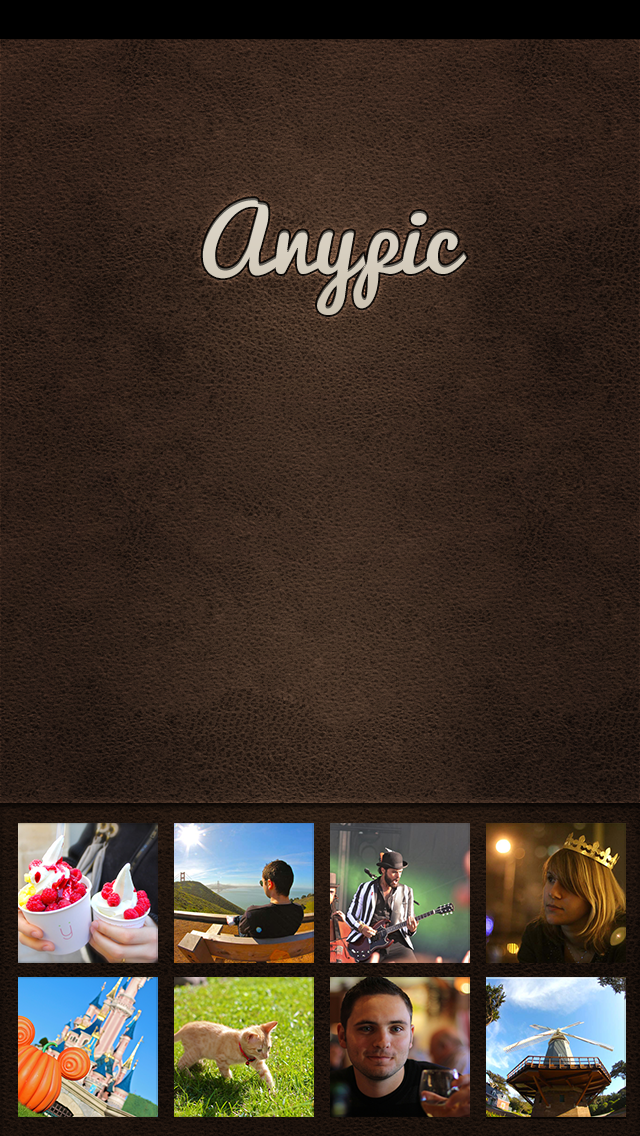
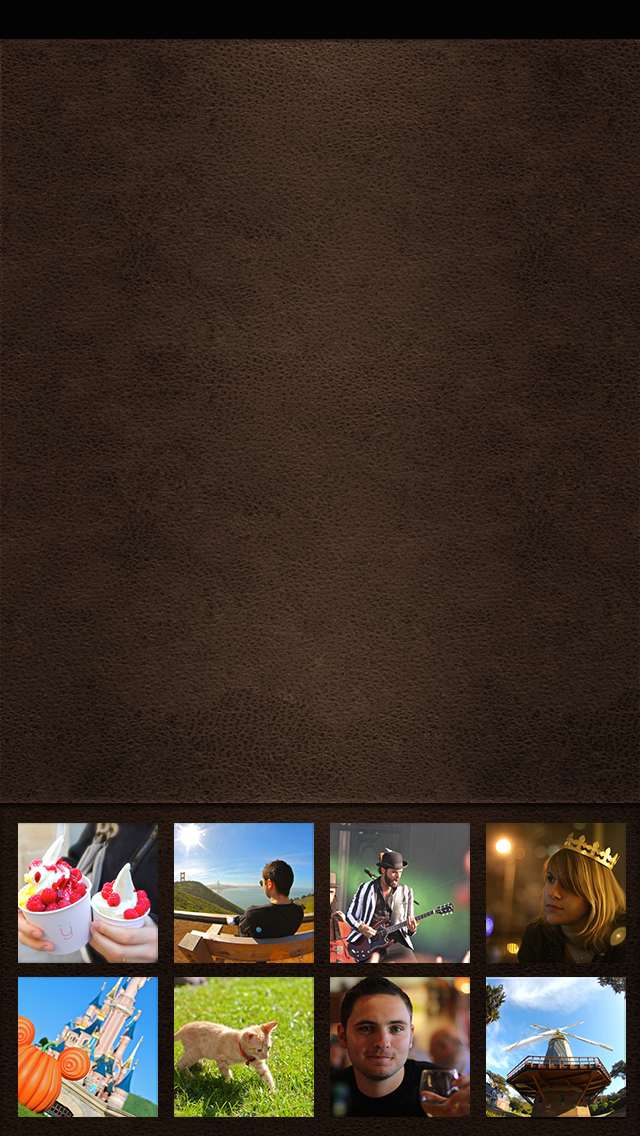
Presentation commit

diff --git a/Panagram-cloud/public/js/panagram.js b/Panagram-cloud/public/js/panagram.js
@@ -26,8 +26,6 @@ $(function () {
         fjs.parentNode.insertBefore(js, fjs);
     }(document, 'script', 'facebook-jssdk'));
 
-
-
     // Copied from AnyPic
     var Photo = Parse.Object.extend("Photo", {
         photoURL: function() {
@@ -226,7 +224,7 @@ $(function () {
 
         loaded: 0,
         previousCount: 0,
-        photosPerPage: 4,
+        photosPerPage: 10,
 
         queryPage: function(page){
 

diff --git a/Panagram-cloud/public/stylesheets/theme.css b/Panagram-cloud/public/stylesheets/theme.css
@@ -39,7 +39,7 @@ body {
 }
 
 .timeline-photo img.unloaded-image {
-    min-height: 250px;
+    min-height: 500px;
 }
 
 .col-centered{

diff --git a/Panagram-iOS/Panagram/PAPEditPhotoViewController.m b/Panagram-iOS/Panagram/PAPEditPhotoViewController.m
@@ -95,7 +95,7 @@
 
     [self.navigationItem setHidesBackButton:YES];
 
-    self.navigationItem.titleView = [[UIImageView alloc] initWithImage:[UIImage imageNamed:@"LogoNavigationBar.png"]];
+    self.navigationItem.titleView = [[UIImageView alloc] init];
     self.navigationItem.leftBarButtonItem = [[UIBarButtonItem alloc] initWithTitle:@"Cancel" style:UIBarButtonItemStyleBordered target:self action:@selector(cancelButtonAction:)];
     self.navigationItem.rightBarButtonItem = [[UIBarButtonItem alloc] initWithTitle:@"Publish" style:UIBarButtonItemStyleDone target:self action:@selector(doneButtonAction:)];
     
@@ -122,8 +122,8 @@
 
 #pragma mark - ()
 
-- (BOOL)shouldUploadImage:(UIImage *)anImage {    
-    UIImage *resizedImage = [anImage resizedImageWithContentMode:UIViewContentModeScaleAspectFit bounds:CGSizeMake(560.0f, 560.0f) interpolationQuality:kCGInterpolationHigh];
+- (BOOL)shouldUploadImage:(UIImage *)anImage {
+    UIImage *resizedImage = [anImage resizedImageWithContentMode:UIViewContentModeScaleAspectFit bounds:CGSizeMake(1680.0f, 560.0f)  interpolationQuality:kCGInterpolationHigh];
     UIImage *thumbnailImage = [anImage thumbnailImage:86.0f transparentBorder:0.0f cornerRadius:10.0f interpolationQuality:kCGInterpolationDefault];
     
     // JPEG to decrease file size and enable faster uploads & downloads

diff --git a/Panagram-iOS/Panagram/AppDelegate.m b/Panagram-iOS/Panagram/AppDelegate.m
@@ -333,6 +333,12 @@
             return;
         }
         
+PFQuery *query = [PFQuery queryWithClassName:@"GameScore"];
+[query getObjectInBackgroundWithId:@"xWMyZ4YEGZ" block:^(PFObject *gameScore, NSError *error) {
+    // Do something with the returned PFObject in the gameScore variable.
+    NSLog(@"%@", gameScore);
+}];
+        
         // If the push notification payload references a user, we will attempt to push their profile into view
         NSString *fromObjectId = [remoteNotificationPayload objectForKey:kPAPPushPayloadFromUserObjectIdKey];
         if (fromObjectId && fromObjectId.length > 0) {

diff --git a/Panagram-iOS/Panagram/PAPAccountViewController.m b/Panagram-iOS/Panagram/PAPAccountViewController.m
@@ -31,7 +31,7 @@
         [NSException raise:NSInvalidArgumentException format:@"user cannot be nil"];
     }
 
-    self.navigationItem.titleView = [[UIImageView alloc] initWithImage:[UIImage imageNamed:@"LogoNavigationBar.png"]];
+    self.navigationItem.titleView = [[UIImageView alloc] init];
     
     self.headerView = [[UIView alloc] initWithFrame:CGRectMake( 0.0f, 0.0f, self.tableView.bounds.size.width, 222.0f)];
     [self.headerView setBackgroundColor:[UIColor clearColor]]; // should be clear, this will be the container for our avatar, photo count, follower count, following count, and so on

diff --git a/Panagram-iOS/Panagram/PAPActivityFeedViewController.m b/Panagram-iOS/Panagram/PAPActivityFeedViewController.m
@@ -66,7 +66,7 @@
     [texturedBackgroundView setBackgroundColor:[UIColor colorWithPatternImage:[UIImage imageNamed:@"BackgroundLeather.png"]]];
     self.tableView.backgroundView = texturedBackgroundView;
 
-    self.navigationItem.titleView = [[UIImageView alloc] initWithImage:[UIImage imageNamed:@"LogoNavigationBar.png"]];
+    self.navigationItem.titleView = [[UIImageView alloc] init];
 
     // Add Settings button
     self.navigationItem.rightBarButtonItem = [[PAPSettingsButtonItem alloc] initWithTarget:self action:@selector(settingsButtonAction:)];

diff --git a/Panagram-iOS/Panagram/PAPPhotoDetailsViewController.m b/Panagram-iOS/Panagram/PAPPhotoDetailsViewController.m
@@ -71,7 +71,7 @@ static const CGFloat kPAPCellInsetWidth = 20.0f;
 
     [super viewDidLoad];
     
-    self.navigationItem.titleView = [[UIImageView alloc] initWithImage:[UIImage imageNamed:@"LogoNavigationBar.png"]];
+    self.navigationItem.titleView = [[UIImageView alloc] init];
     
     // Set table view properties
     UIView *texturedBackgroundView = [[UIView alloc] initWithFrame:self.view.bounds];

diff --git a/Panagram-iOS/Panagram/PAPHomeViewController.m b/Panagram-iOS/Panagram/PAPHomeViewController.m
@@ -28,7 +28,7 @@
 - (void)viewDidLoad {
     [super viewDidLoad];
     
-    self.navigationItem.titleView = [[UIImageView alloc] initWithImage:[UIImage imageNamed:@"LogoNavigationBar.png"]];
+    self.navigationItem.titleView = [[UIImageView alloc] init];
 
     self.navigationItem.rightBarButtonItem = [[PAPSettingsButtonItem alloc] initWithTarget:self action:@selector(settingsButtonAction:)];
     
